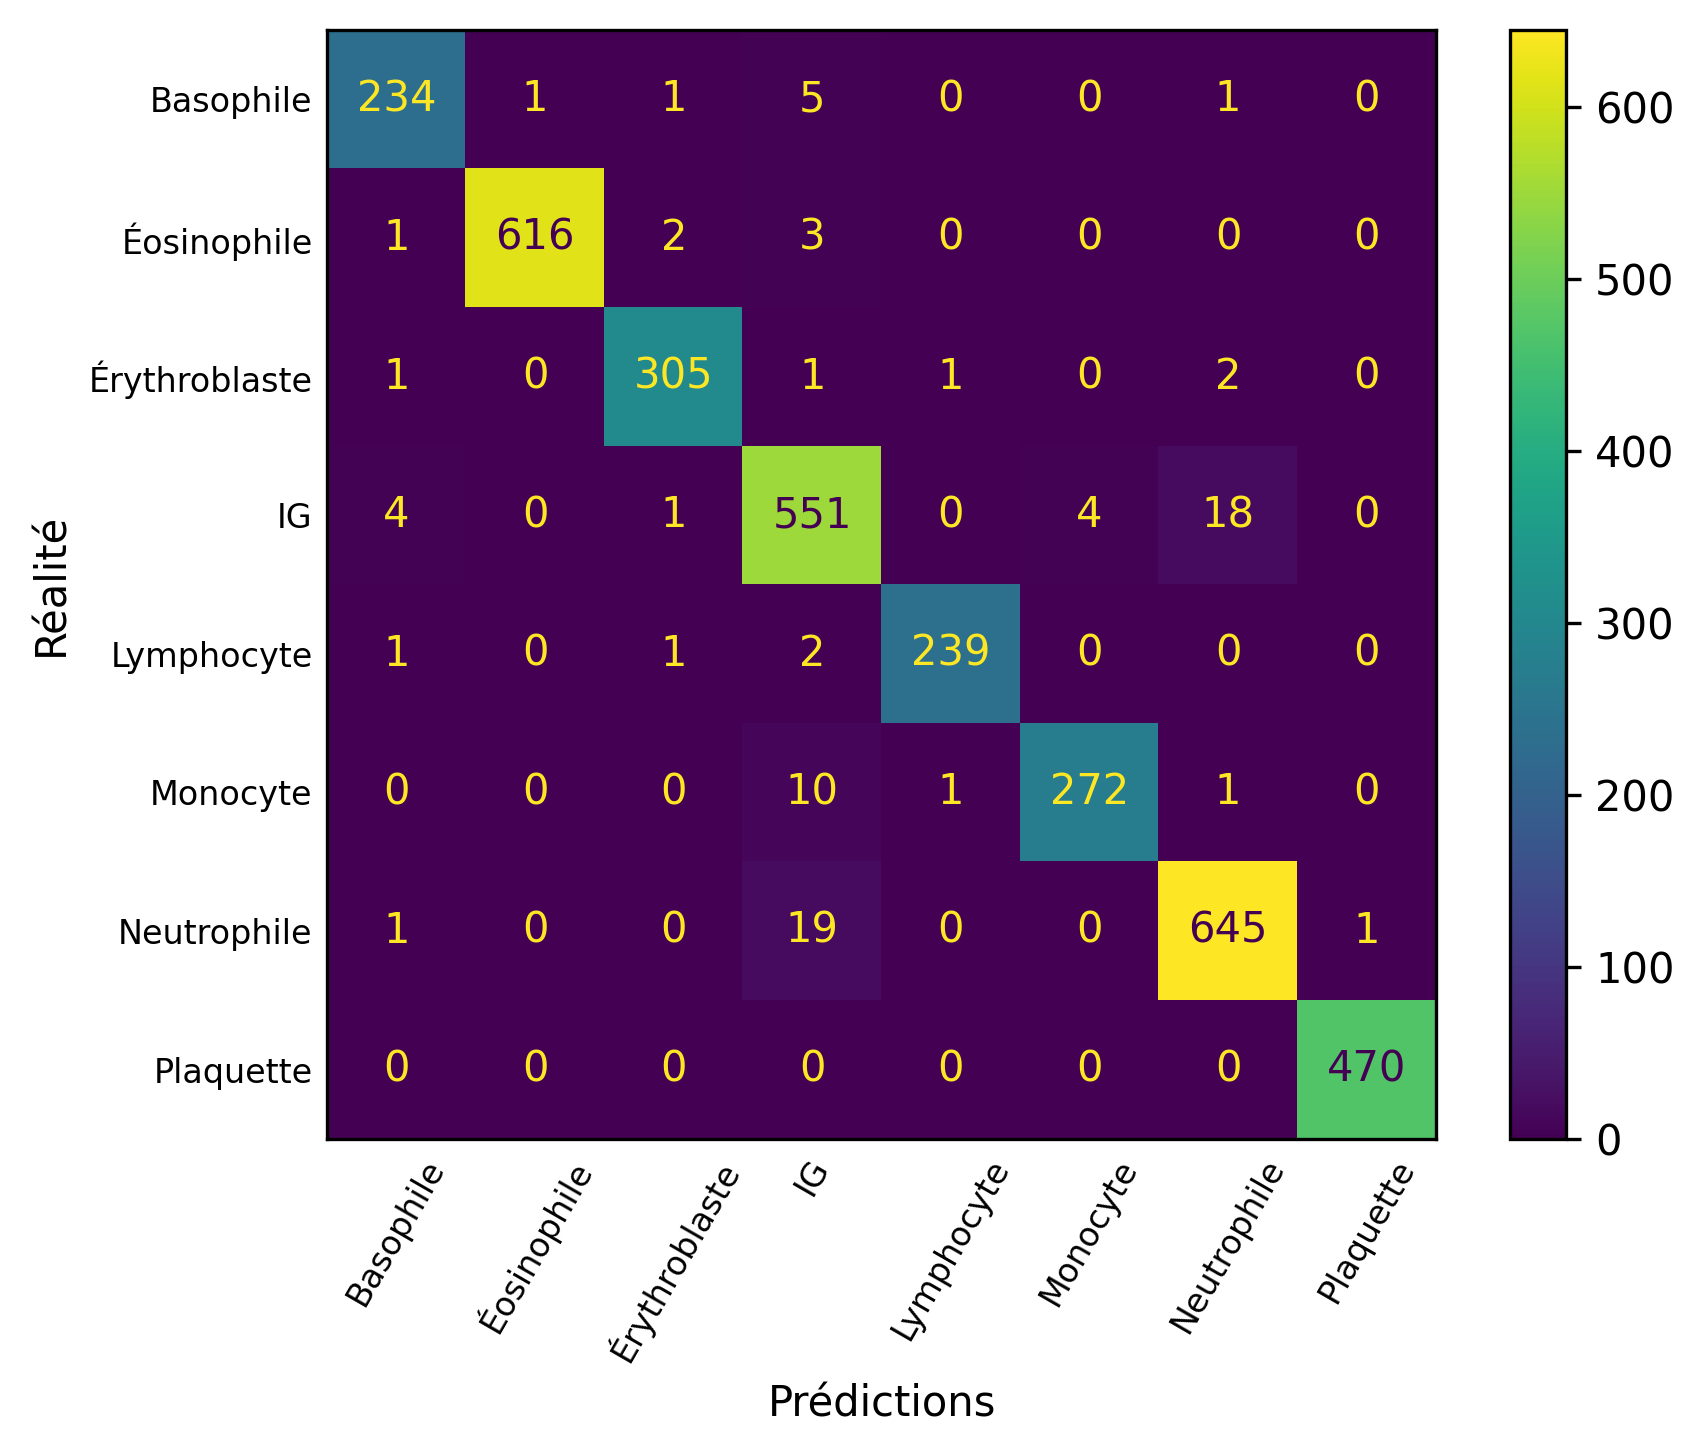
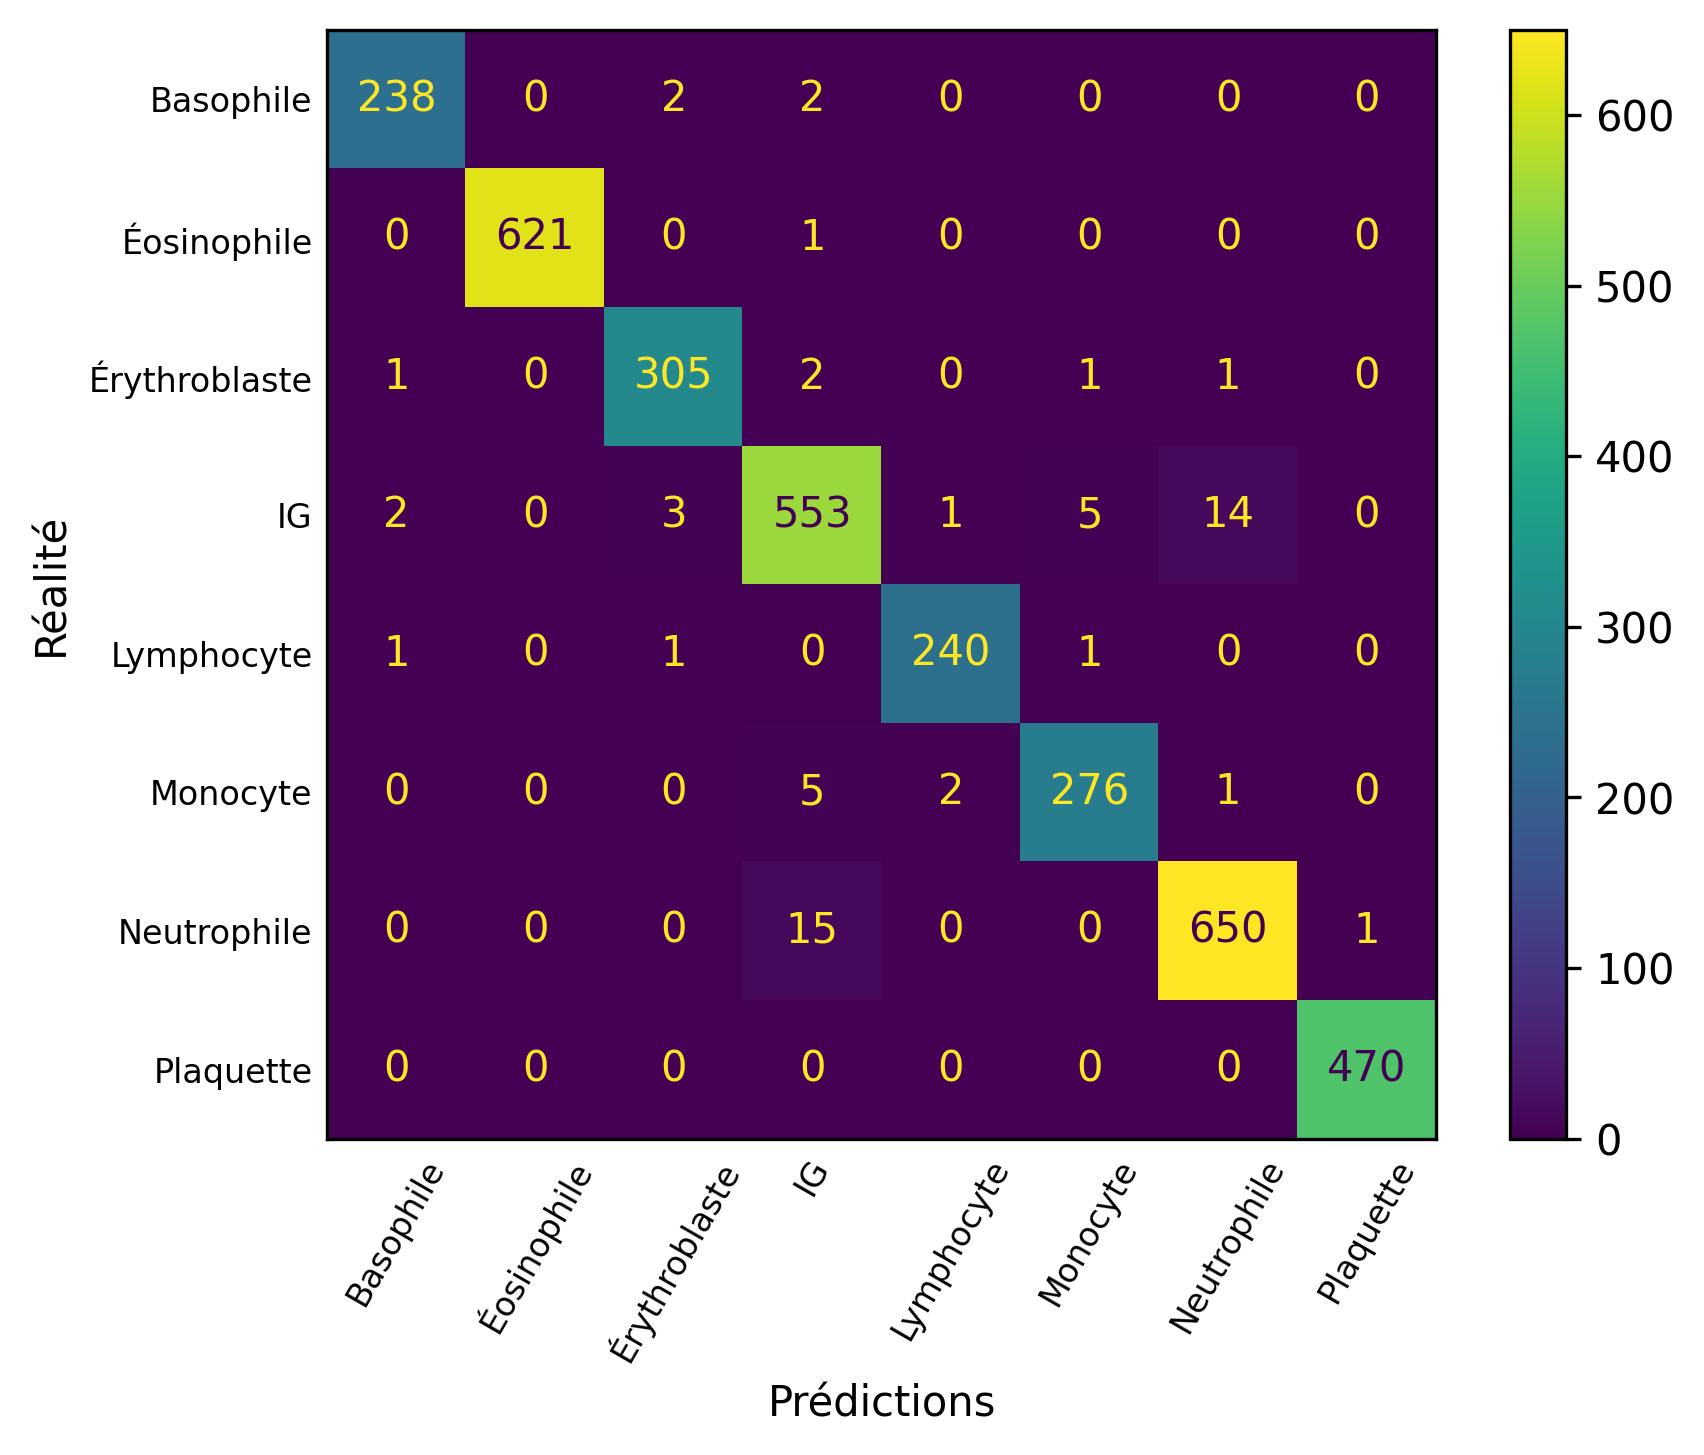
New commit for ML

diff --git a/pages/2_Prétraitement.py b/pages/2_Prétraitement.py
@@ -53,7 +53,7 @@ with tab1:
             <div style="background:#f8f8f8; border-radius:10px; padding:14px 20px; text-align:center; flex:1;">
                 <div style="font-size:15px;">🟠</div>
                 <div style="font-weight:600; margin:4px 0;">K-Means</div>
-                <div style="font-size:12px; color:#888;">k = 13 clusters</div>
+                <div style="font-size:12px; color:#888;">k = 8 clusters</div>
             </div>
             <div style="font-size:20px; color:#ccc;">→</div>
             <div style="background:#f8f8f8; border-radius:10px; padding:14px 20px; text-align:center; flex:1;">
@@ -70,29 +70,27 @@ with tab1:
 
     df = pd.DataFrame({
         "Catégorie" : ["K-Means", "K-Means", "K-Means", "K-Means",
-                        "Global", "Global",
+                        "Global", 
                         "Texture", "Texture"],
             "Feature"   : [
                 "Histogrammes clusters",
                 "Moyennes intra-clusters",
                 "Écart-types intra-clusters",
                 "Histogrammes radiaux",
-                "Contraste",
                 "Statistiques globales",
                 "GLCM",
                 "Sobel",
             ],
             "Description": [
-                "Distribution globale des 13 clusters",
+                "Distribution globale des 8 clusters",
                 "Moyenne par cluster sur L*, a* et b*",
                 "Écart-type par cluster sur L*, a* et b*",
-                "4 anneaux concentriques × 13 clusters",
-                "Moyenne et écart-type",
+                "4 anneaux concentriques × 8 clusters",
                 "Moyenne et écart-type sur L*, a* et b*",
                 "Contraste, homogénéité et énergie",
                 "Moyenne et écart-type de la magnitude du gradient ",
             ],
-        "Dimension":[13, 39, 39, 52, 2, 6, 3, 2]
+        "Dimension":[8, 24, 24, 32, 6, 3, 2]
     })
 
     st.dataframe(
@@ -101,7 +99,7 @@ with tab1:
         hide_index=True,
     )
 
-    st.metric("Dimension totale", "156")
+    st.metric("Dimension totale", "99")
 
     st.caption("Dimension initiale : 128 × 128 × 3 = 49 152, rendant la classification directe difficile sur CPU.")
 
@@ -127,7 +125,7 @@ with tab1:
 
     with col2:
 
-        img = Image.open(f"{FIGURES_DIR}/kmeans_radii2.png").convert("RGB")
+        img = Image.open(f"{FIGURES_DIR}/kmeans_radii.png").convert("RGB")
         st.image(img, width="stretch")
         st.caption("Schématisation sur une image segmentée par K-Means. Les couleurs correspondent aux centres des clusters.")
 
@@ -137,7 +135,7 @@ with tab1:
 
     st.subheader("UMAP — projection des features")
 
-    st.write("Projection UMAP des images à partir des 156 features extraites par le pipeline ML, réduite à 2 composantes. Chaque point représente une image, coloré selon sa classe cellulaire.")
+    st.write("Projection UMAP des images à partir des 99 features extraites par le pipeline ML, réduite à 2 composantes. Chaque point représente une image, coloré selon sa classe cellulaire.")
 
     df_umap = load_umap(UMAP_CSV)
     classes = sorted(df_umap["label"].unique())

diff --git a/pages/3_Modèles.py b/pages/3_Modèles.py
@@ -130,11 +130,11 @@ with tab1:
         </div>
         <div style="background:#f8f8f8; border-radius:10px; padding:16px 24px; flex:1;">
             <div style="font-size:13px; color:#888;">Accuracy</div>
-            <div style="font-size:28px; font-weight:500; margin:8px 0;">98.24%</div>
+            <div style="font-size:28px; font-weight:500; margin:8px 0;">98.45%</div>
         </div>
         <div style="background:#f8f8f8; border-radius:10px; padding:16px 24px; flex:1;">
             <div style="font-size:13px; color:#888;">F1 macro</div>
-            <div style="font-size:28px; font-weight:500; margin:8px 0;">98.37%</div>
+            <div style="font-size:28px; font-weight:500; margin:8px 0;">98.52%</div>
         </div>
     </div>
     """, unsafe_allow_html=True)

diff --git a/pages/5_Conclusion.py b/pages/5_Conclusion.py
@@ -13,7 +13,7 @@ st.divider()
 st.markdown("### Principaux résultats")
 st.markdown("""
 - Le pipeline ML — extraction de features via K-Means L\\*a\\*b\\*, GLCM et Sobel — offre une classification **rapide sur CPU** dont chaque prédiction peut être **expliquée** et **justifiée** via SHAP
-- Le Voting Classifier atteint **98,24% d'accuracy**, confirmant la pertinence des **features colorimétriques et texturales** extraites pour cette tâche de classification
+- Le Voting Classifier atteint **98,45% d'accuracy**, confirmant la pertinence des **features colorimétriques et texturales** extraites pour cette tâche de classification
 - Les modèles DL par Transfer Learning atteignent **99,21% d'accuracy**, soit la meilleure performance observée
 - Les **Grad-CAM** confirment que les modèles DL focalisent leur attention sur les zones biologiquement pertinentes — noyau et cytoplasme — ce qui valide leur comportement au-delà du simple score
 """)